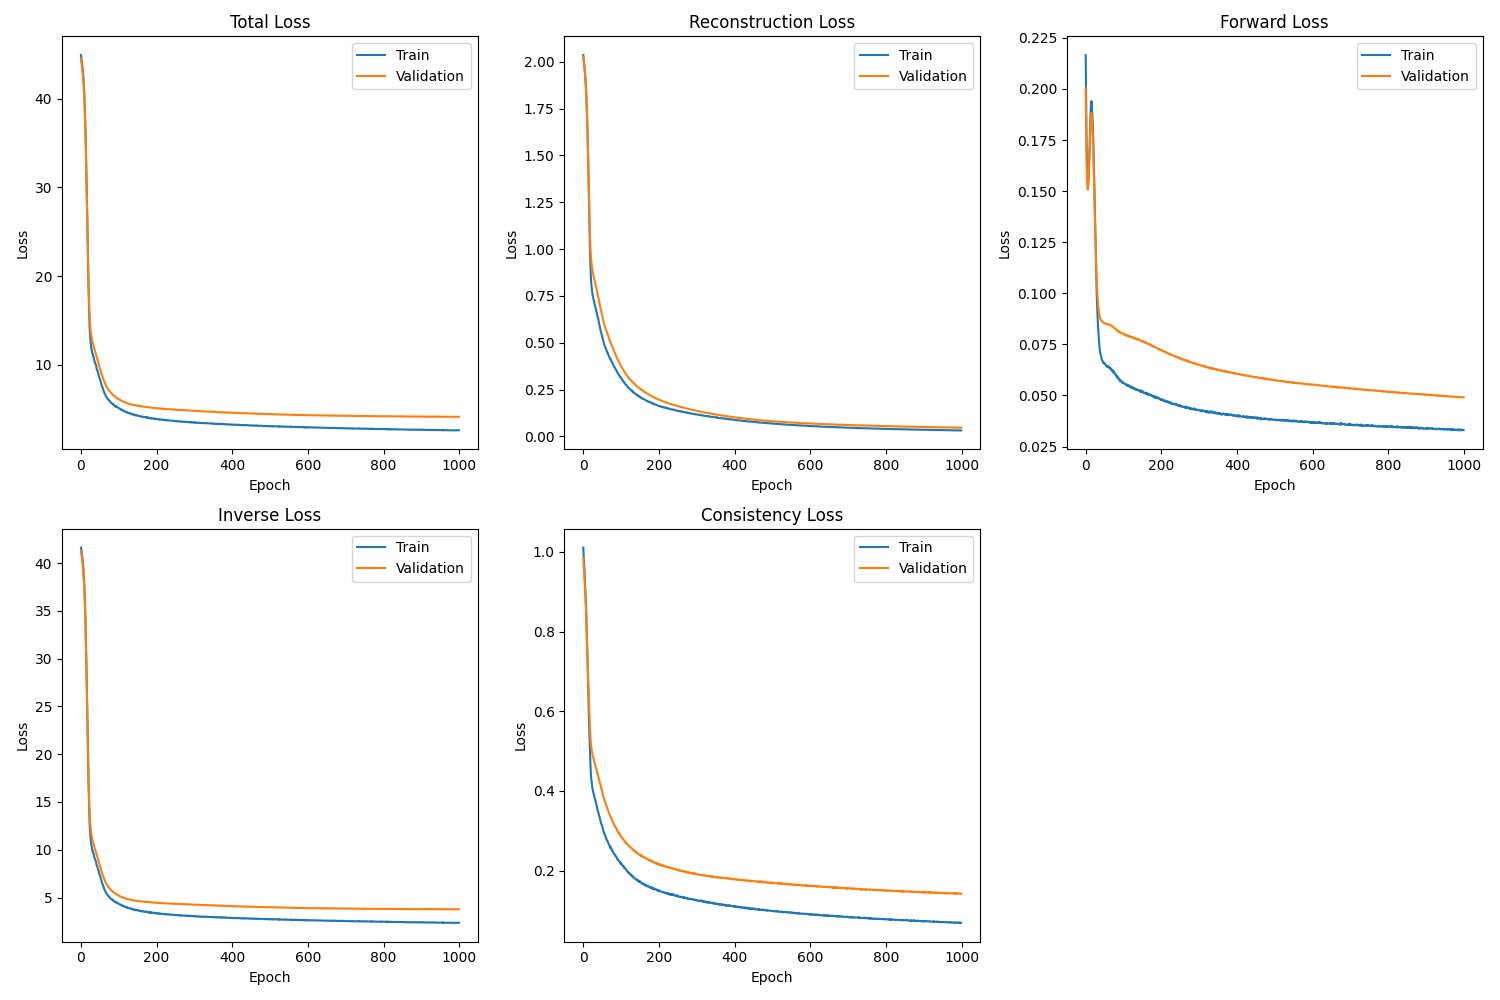
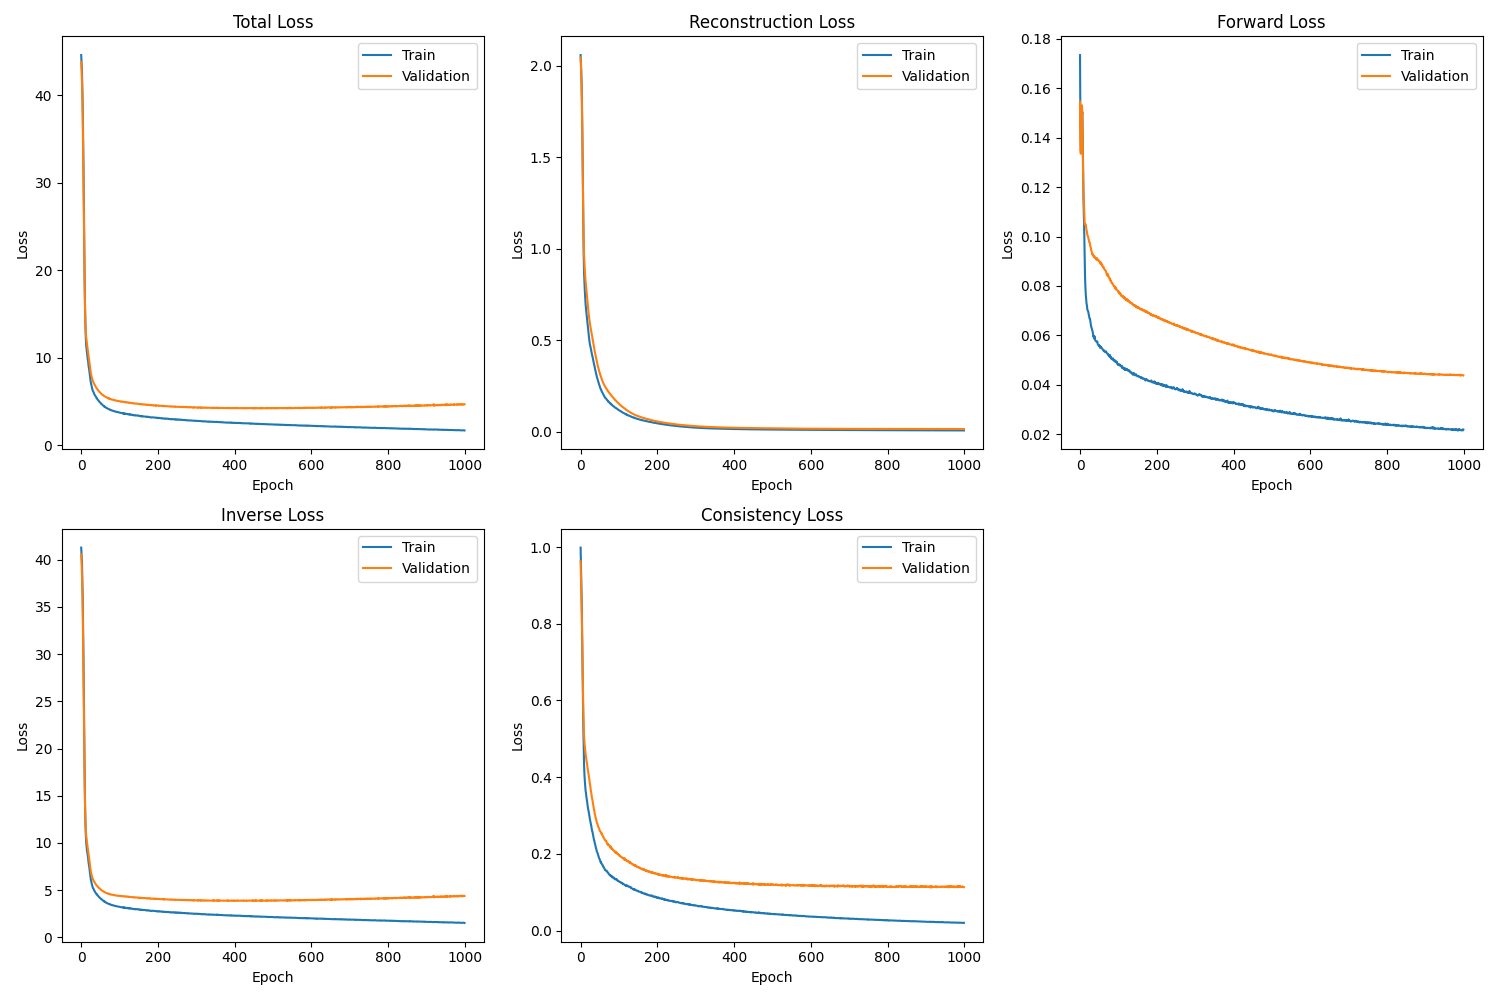
cleaned up code

diff --git a/mvp/sfmppo.py b/mvp/sfmppo.py
@@ -25,14 +25,16 @@ from env_wrappers import (JumpRewardWrapper, TargetVelocityWrapper, DelayedRewar
 class Args:
     exp_name: str = "fmppo_halfcheetah"
     env_id: str = "HalfCheetah-v4"
-    total_timesteps: int = 2000000
+    total_timesteps: int = 3000000
     torch_deterministic: bool = True
     cuda: bool = True
     capture_video: bool = True
     seed: int = 1
-    ppo_learning_rate: float = 3e-4
+    ppo_learning_rate: float = 1e-4
     upn_learning_rate: float = 8e-5 # lower learning rate
     latent_size: int = 100
+    upn_hidden_layer: int = 256
+    ppo_hidden_layer: int = 256
     num_envs: int = 1
     num_steps: int = 2048
     anneal_lr: bool = True
@@ -49,8 +51,12 @@ class Args:
     upn_coef: float = 0.8
     kl_coef: float = 0.1
     target_kl: float = 0.01
-    load_upn: str = "supervised_upn_well_trained_ppo.pth" #"supervised_upn_100.pth"
     mix_coord: bool = True # this helps greatly
+    
+    load_upn: str = "supervised_upn_well_trained_ppo.pth" #"supervised_upn_100.pth"
+    imitation_data_path: str= "imitation_data_ppo_well_trained.npz" # data need to match up
+    save_sfm: str = "sfm_hc_test_2.pth"
+    save_sfmppo: str = "sfmppo_hc_test_2.pth"
 
     # to be set at runtime
     batch_size: int = 0 
@@ -97,24 +103,24 @@ class UPN(nn.Module):
     def __init__(self, state_dim, action_dim, latent_dim):
         super(UPN, self).__init__()
         self.encoder = nn.Sequential(
-            nn.Linear(state_dim, 64),
+            nn.Linear(state_dim, args.upn_hidden_layer),
             nn.ReLU(),
-            nn.Linear(64, latent_dim)
+            nn.Linear(args.upn_hidden_layer, latent_dim)
         )
         self.decoder = nn.Sequential(
-            nn.Linear(latent_dim, 64),
+            nn.Linear(latent_dim, args.upn_hidden_layer),
             nn.ReLU(),
-            nn.Linear(64, state_dim)
+            nn.Linear(args.upn_hidden_layer, state_dim)
         )
         self.dynamics = nn.Sequential(
-            nn.Linear(latent_dim + action_dim, 64),
+            nn.Linear(latent_dim + action_dim, args.upn_hidden_layer),
             nn.ReLU(),
-            nn.Linear(64, latent_dim)
+            nn.Linear(args.upn_hidden_layer, latent_dim)
         )
         self.inverse_dynamics = nn.Sequential(
-            nn.Linear(latent_dim * 2, 64),
+            nn.Linear(latent_dim * 2, args.upn_hidden_layer),
             nn.ReLU(),
-            nn.Linear(64, action_dim)
+            nn.Linear(args.upn_hidden_layer, action_dim)
         )
 
     def forward(self, state, action, next_state):
@@ -136,18 +142,18 @@ class Agent(nn.Module):
 
         self.upn = UPN(state_dim, action_dim, latent_dim)
         self.critic = nn.Sequential(
-            layer_init(nn.Linear(latent_dim, 256)),
+            layer_init(nn.Linear(latent_dim, args.ppo_hidden_layer)),
             nn.Tanh(),
-            layer_init(nn.Linear(256, 256)),
+            layer_init(nn.Linear(args.ppo_hidden_layer, args.ppo_hidden_layer)),
             nn.Tanh(),
-            layer_init(nn.Linear(256, 1), std=1.0),
+            layer_init(nn.Linear(args.ppo_hidden_layer, 1), std=1.0),
         )
         self.actor_mean = nn.Sequential(
-            layer_init(nn.Linear(latent_dim, 256)),
+            layer_init(nn.Linear(latent_dim, args.ppo_hidden_layer)),
             nn.Tanh(),
-            layer_init(nn.Linear(256, 256)),
+            layer_init(nn.Linear(args.ppo_hidden_layer, args.ppo_hidden_layer)),
             nn.Tanh(),
-            layer_init(nn.Linear(256, action_dim), std=0.01),
+            layer_init(nn.Linear(args.ppo_hidden_layer, action_dim), std=0.01),
         )
         self.actor_logstd = nn.Parameter(torch.zeros(1, action_dim))
 
@@ -188,11 +194,14 @@ def compute_upn_loss(upn, state, action, next_state):
 
     return recon_loss, forward_loss, inverse_loss, consistency_loss
 
-def mixed_batch(ppo_states, ppo_actions, ppo_next_states, imitation_data_path='mvp/data/imitation_data_half_cheetah_ppo_5e6.npz'):
+def mixed_batch(ppo_states, ppo_actions, ppo_next_states):
     '''3D: sample_size, env_dim, Dof_dim, no sample, concatination direclty'''
 
     # Load imitation data
-    imitation_data = np.load(imitation_data_path)
+    save_dir = os.path.join(os.getcwd(), 'mvp', 'data')
+    os.makedirs(save_dir, exist_ok=True)
+    data_path = os.path.join(save_dir, args.imitation_data_path)
+    imitation_data = np.load(data_path)
     imitation_states = torch.FloatTensor(imitation_data['states']).to(device)
     imitation_actions = torch.FloatTensor(imitation_data['actions']).to(device)
     imitation_next_states = torch.FloatTensor(imitation_data['next_states']).to(device)
@@ -553,14 +562,11 @@ if __name__ == "__main__":
     save_dir = os.path.join(os.getcwd(), 'mvp', 'params')
     os.makedirs(save_dir, exist_ok=True)
 
-    data_filename = f"sfmppo_hc_test_2.pth"
-    data_path = os.path.join(save_dir, data_filename)
+    data1_path = os.path.join(save_dir, args.save_sfmppo)
+    data2_path = os.path.join(save_dir, args.save_sfm)
 
-    data_filename = f"sfm_hc_test_2.pth"
-    data2_path = os.path.join(save_dir, data_filename)
-
-    print('Saved at: ', data_path)
-    torch.save(agent.state_dict(), data_path)
+    print('Saved at: ', data1_path)
+    torch.save(agent.state_dict(), data1_path)
 
     print('Saved at: ', data2_path)
     torch.save(agent.upn.state_dict(), data2_path)

diff --git a/mvp/testing/test.py b/mvp/testing/test.py
@@ -11,7 +11,7 @@ from torch.distributions import Normal
 import torch.nn as nn
 from sfmppo import Args, Agent as SFMPPOAgent, make_env
 from fmppo_vector_prone import Agent as ProneAgent
-from mvp.ppo import Agent as PPOAgent
+from ppo import Agent as PPOAgent
 import random
 
 def evaluate_model(agent, envs, device, num_episodes=100):
@@ -54,19 +54,19 @@ if __name__ == "__main__":
 
     # Load the FM-PPO model
     sfmppo_agent = SFMPPOAgent(envs).to(device)
-    sfmppo_path = os.path.join(os.getcwd(), "mvp", "params", "sfmppo_test.pth")
+    sfmppo_path = os.path.join(os.getcwd(), "mvp", "params", "sfmppo_hc_test_2.pth")
     sfmppo_agent.load_state_dict(torch.load(sfmppo_path, map_location=device))
 
     # Load the PPO model
     ppo_agent = PPOAgent(envs).to(device)
-    ppo_path = os.path.join(os.getcwd(), "mvp", "params", "ppo_vector_5e6.pth")
+    ppo_path = os.path.join(os.getcwd(), "mvp", "params", "ppo_hc_test.pth")
     ppo_agent.load_state_dict(torch.load(ppo_path, map_location=device))
 
     # prone_agent = ProneAgent(envs).to(device)
     # prone_path = os.path.join(os.getcwd(), "mvp", "params", "fmppo_vector_prone.pth")
     # prone_agent.load_state_dict(torch.load(prone_path, map_location=device))
 
-    episode_num = 300
+    episode_num = 50
     sfmppo_returns = evaluate_model(sfmppo_agent, envs, device, num_episodes=episode_num)
     # prone_returns = evaluate_model(prone_agent, envs, device, num_episodes=episode_num)
     ppo_returns = evaluate_model(ppo_agent, envs, device, num_episodes=episode_num)
@@ -75,8 +75,8 @@ if __name__ == "__main__":
     plt.plot(range(1, len(sfmppo_returns)+1), sfmppo_returns, label="SFM-PPO", marker='o')
     # plt.plot(range(1, len(prone_returns)+1), prone_returns, label="Prone FM-PPO", marker='o')
     plt.plot(range(1, len(ppo_returns)+1), ppo_returns, label="PPO", marker='o')
-    plt.title("Episode Returns for PPO & SFM-PPO On 0.8 PA/POMDP, Change of Dynamics")
-    # plt.title("Episode Returns for PPO & SFM-PPO On Standard Half-Cheetah Env")
+    # plt.title("Episode Returns for PPO & SFM-PPO On 0.8 PA/POMDP, Change of Dynamics")
+    plt.title("Episode Returns for PPO & SFM-PPO On Standard Half-Cheetah Env")
     plt.xlabel("Episode")
     plt.ylabel("Return")
     plt.legend()

diff --git a/mvp/supervised_upn.py b/mvp/supervised_upn.py
@@ -11,7 +11,7 @@ class Args:
     total_timesteps: int = 1000000
     learning_rate: float = 8e-5
     batch_size: int = 64
-    hidden_size: int = 64
+    hidden_size: int = 256
     latent_size: int = 100
     num_epochs: int = 1000
     cuda: bool = True
